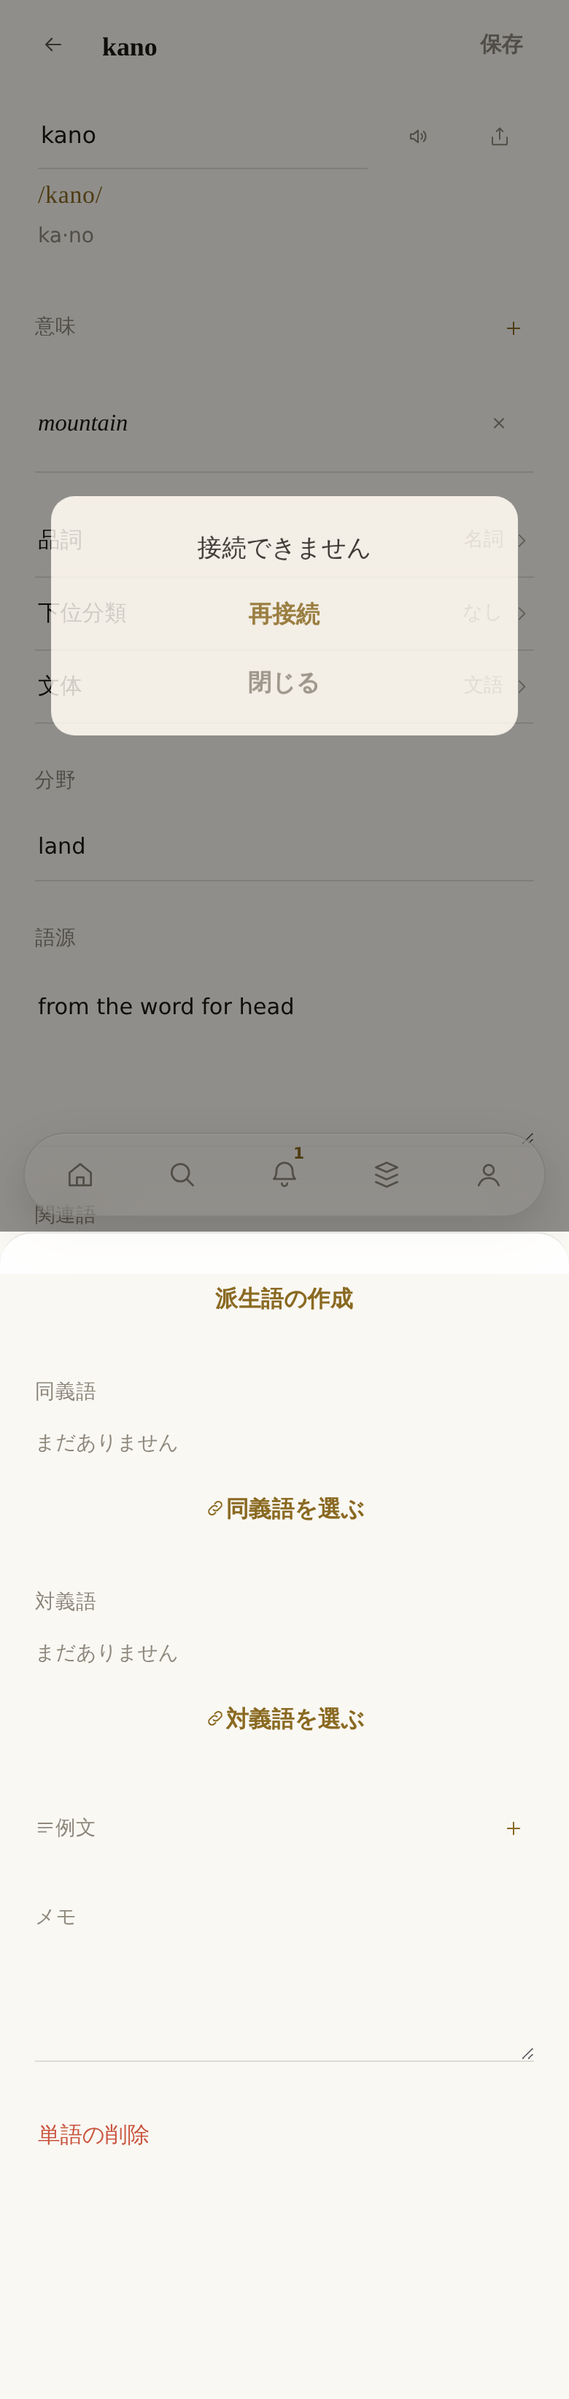
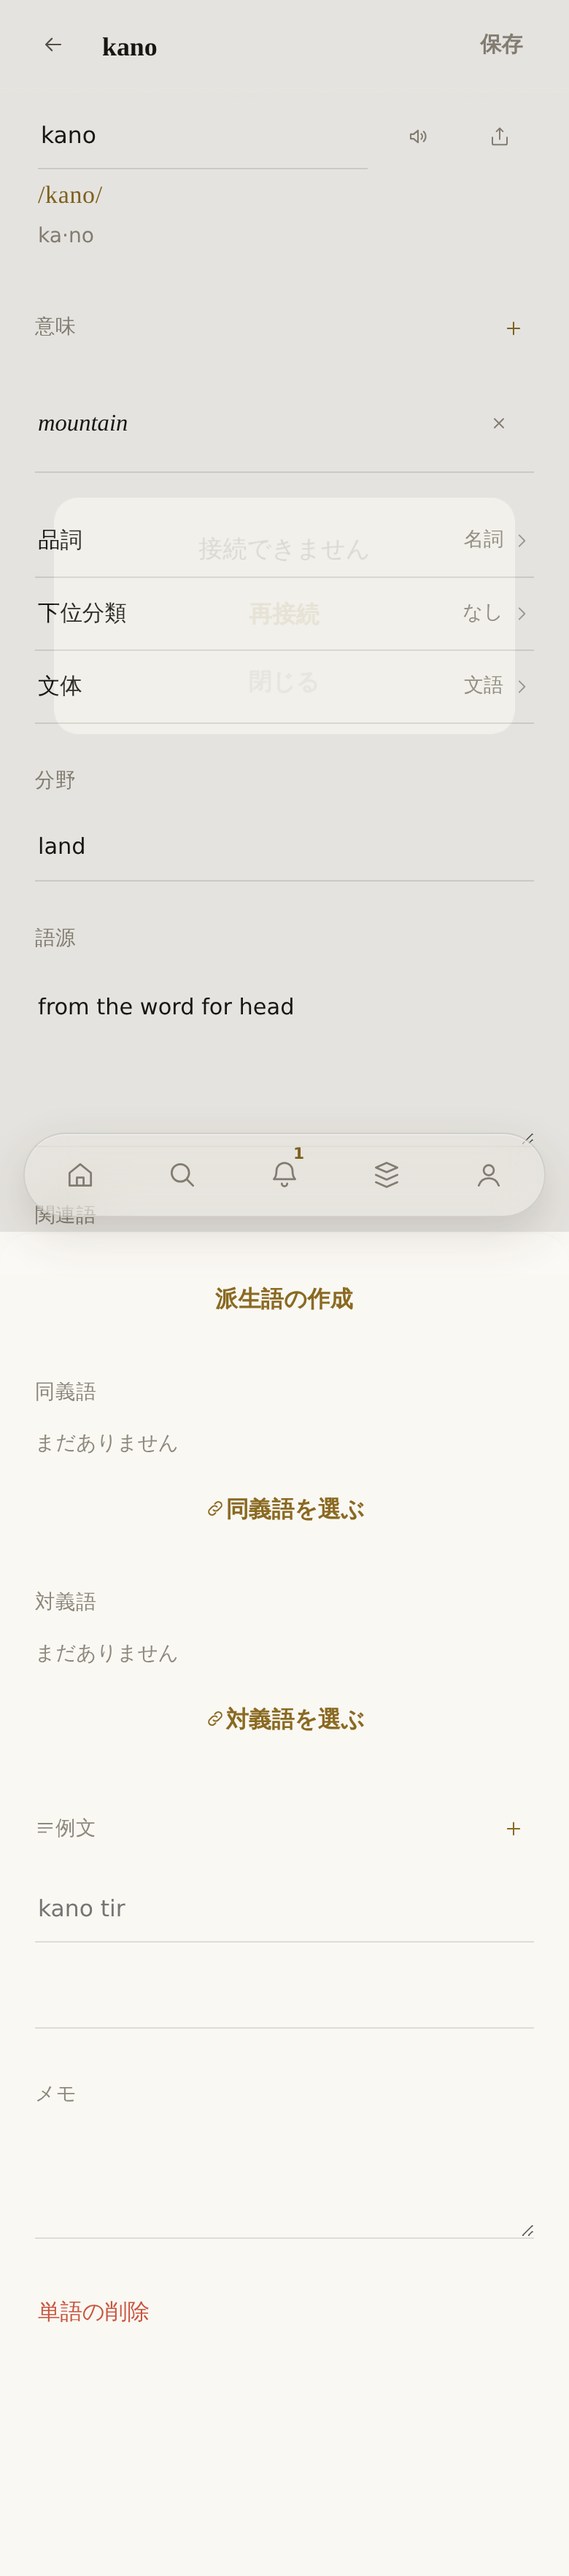
A: 意味と例文の一つ目は最初から欄を出す（＋は二つ目から）

diff --git a/www/wordsheet.js b/www/wordsheet.js
@@ -211,20 +211,23 @@ function vSpell(){
     ipaPickHTML('spAdd', [])+
     '</div></div>';
 }
-/* A field for one more of something appears when the `+` on the heading is
-   pressed and stays for the rest of the sheet, so a word with five meanings
-   is five presses of Enter and not five of anything else. Nothing is typed
-   into until somebody says there is one more. */
+/* The field is there when there is nothing yet, and the `+` on the heading is
+   for the SECOND one onwards -- 「追加した後意味が1つ目から+ボタン押さないと
+   いけない」 OWNER 2026-09-05. Once pressed it stays for the rest of the sheet,
+   so a word with five meanings is five presses of Enter and not five of
+   anything else. wdMnShow()/wdExShow() are the one place each answers it. */
 var wdMnNew=false, wdExNew=false;
 function wdMnOpen(){ wdMnNew=true; wdPaint(); }
 function wdExOpen(){ wdExNew=true; wdPaint(); }
+function wdMnShow(){ return wdMnNew || !(wEdit && wEdit.mns && wEdit.mns.length); }
+function wdExShow(){ var w=wdW(); return wdExNew || !(w && w.ex && w.ex.length); }
 function wdMnsHTML(){
   var rows=wEdit.mns.map(function(m,i){
     return '<div class="mnrow"><span class="mnv">'+esc(m)+'</span>'+
       '<button class="mnx"' + DO('wdDelMn', [i]) + ' aria-label="'+esc(t('word.mn.del'))+'">'+ICON_CROSS+'</button></div>';
   }).join('');
   return '<div class="mnlist">'+rows+'</div>'+
-    (wdMnNew? '<div class="mnadd">'+
+    (wdMnShow()? '<div class="mnadd">'+
       lnField('wd-mn', '', ' aria-label="'+esc(t('word.means'))+'"' + KD('wdAddMn'), '')+
       '</div>' : '');
 }
@@ -398,7 +401,7 @@ function wdExHTML(){
           exBtn('wdDelEx', [i], 'word.ex.del', ICON_CROSS));
       }).join('')+'</div>'
     : '')+
-    (wdExNew? '<div class="exadd">'+
+    (wdExShow()? '<div class="exadd">'+
       lnField('wd-exl', exHint(), KD('wdAddEx'), '')+
       lnField('wd-exg', '', ' aria-label="'+esc(t('word.ex.gl.ph'))+'"' + KD('wdAddEx'), '')+
     '</div>' : '');
